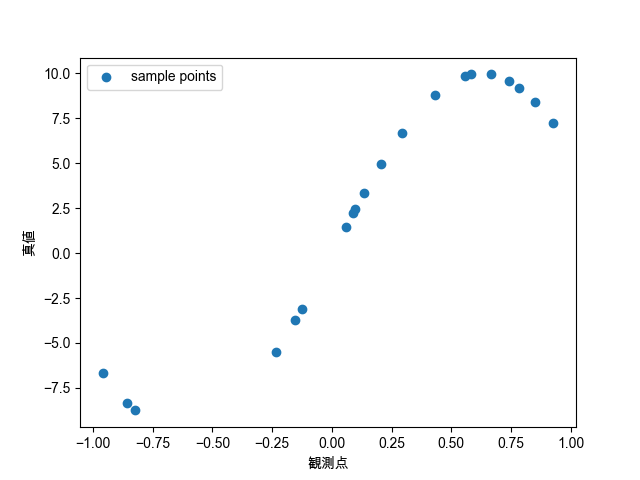
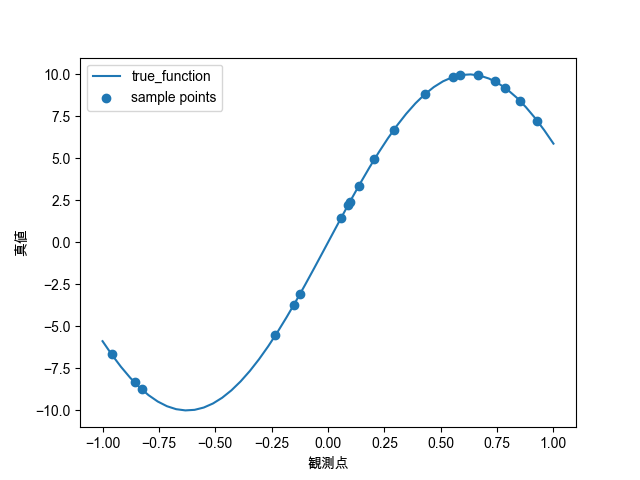
ex1.2

diff --git a/exercise/ex1.2/datasset1.py b/exercise/ex1.2/datasset1.py
@@ -28,8 +28,11 @@ def create_sample_dataframe(n=20, seed=0):
         "真値": y_true
     })
 
+x = np.linspace(-1, 1)
+y = true_function(x)
 df = create_sample_dataframe()
 
+plt.plot(x, y, label="true_function")
 plt.scatter(df["観測点"], df["真値"], label="sample points")
 plt.xlabel("観測点")
 plt.ylabel("真値")
